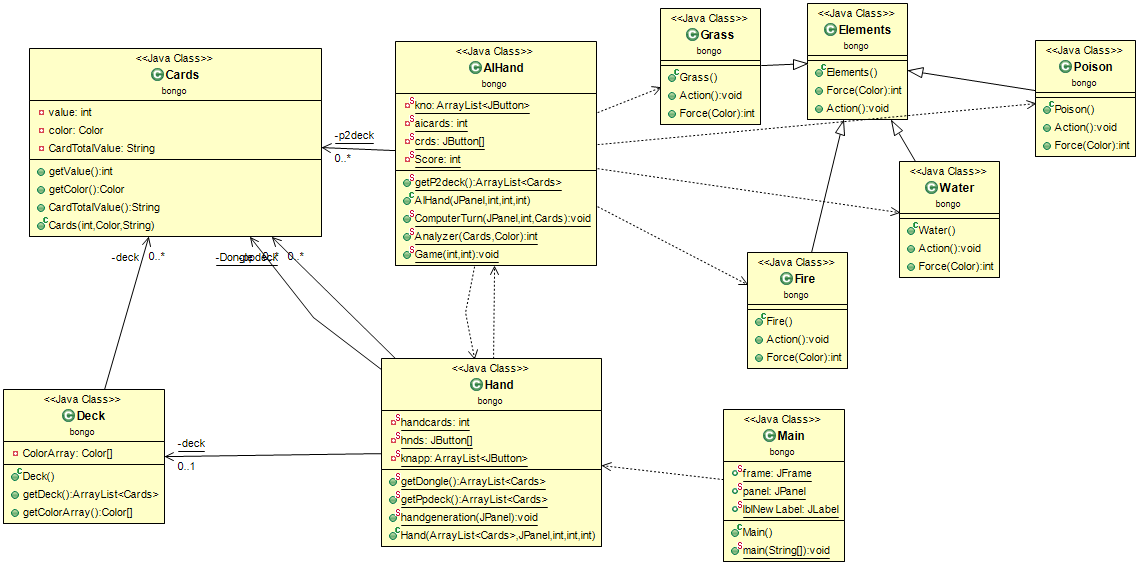
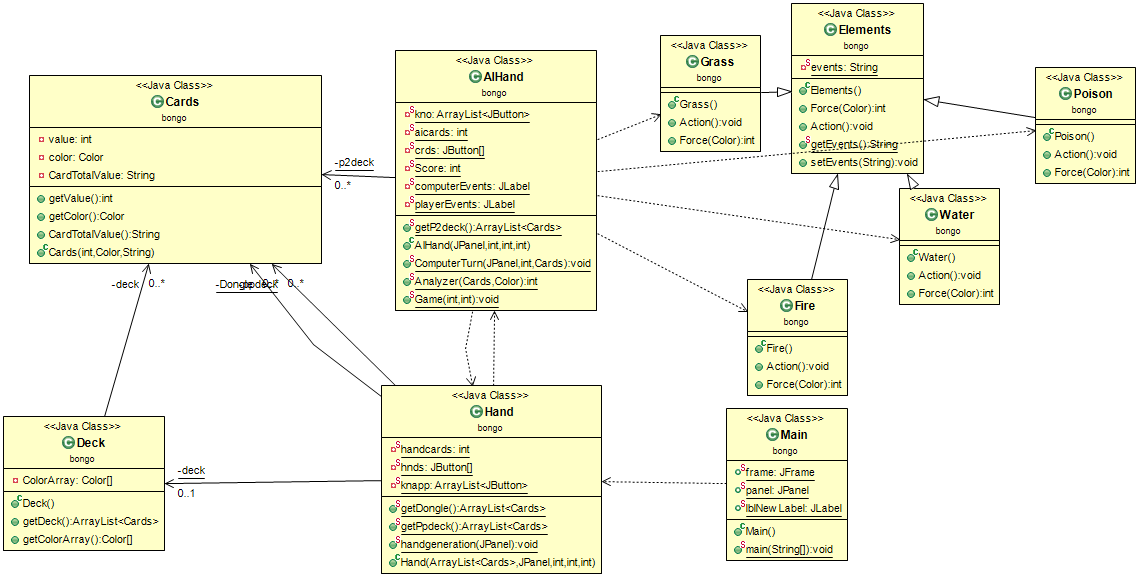
Added bonuses messages.

diff --git a/BongoGane/src/bongo/AIHand.java b/BongoGane/src/bongo/AIHand.java
@@ -4,6 +4,7 @@ import java.awt.Color;
 import java.util.ArrayList;
 
 import javax.swing.JButton;
+import javax.swing.JLabel;
 import javax.swing.JOptionPane;
 import javax.swing.JPanel;
 
@@ -14,12 +15,16 @@ public class AIHand {
 	private static int aicards = 10;
 	private static JButton[] crds = new JButton[aicards];
 	private static int Score = 0;
+	private static JLabel computerEvents = new JLabel();
+	private static JLabel playerEvents = new JLabel();
 	
 	public static ArrayList<Cards> getP2deck() {
 		return p2deck;
 	}
 	
 	public AIHand(JPanel panel,int x, int y, int i) {
+		panel.add(computerEvents);
+		panel.add(playerEvents);
 		JButton card = new JButton("Bongo");
 		int id = i;
 		card.setBounds(x, y, 80, 100);
@@ -30,6 +35,10 @@ public class AIHand {
 	}
 
 	public static void ComputerTurn(JPanel panel, int id, Cards player) {
+		computerEvents.setText("Ai Bonus: ");
+		playerEvents.setText("Your Bonus: ");
+		playerEvents.setBounds(620, 200, 440, 40);
+		computerEvents.setBounds(620, 300, 440, 40);
 		JButton computerChoice = new JButton();
 		kno.add(computerChoice);
 		computerChoice.setVisible(false);
@@ -44,7 +53,13 @@ public class AIHand {
 		panel.add(kno.get(0));
 		
 		int playerdamage = Analyzer(player, activeColor);
+		
+		playerEvents.setText("Your Bonus: " + Elements.getEvents());
+		
 		int computerdamage = Analyzer(getP2deck().get(id), player.getColor());
+		
+		computerEvents.setText("Ai Bonus: " + Elements.getEvents());
+		
 		int playernumber = Integer.parseInt(player.CardTotalValue());
 		int computernumber = Integer.parseInt(getP2deck().get(id).CardTotalValue());
 		int playerTotal = playerdamage + playernumber;

diff --git a/BongoGane/src/bongo/Fire.java b/BongoGane/src/bongo/Fire.java
@@ -3,15 +3,17 @@ package bongo;
 import java.awt.Color;
 
 public class Fire extends Elements {
+	
 	public void Action() {
 		System.out.println("Burn");
 	}
 
 	public int Force(Color enemy) {
 		if(enemy == Color.GREEN) {
-			System.out.println("Extra Burn (+1 damage)");
+			setEvents("Extra Burn (+1 damage)");
 			return 1;
 		}else {
+			setEvents("");
 			return 0;
 		}
 	}

diff --git a/BongoGane/src/bongo/Elements.java b/BongoGane/src/bongo/Elements.java
@@ -3,11 +3,20 @@ package bongo;
 import java.awt.Color;
 
 public class Elements {
+	
+	private static String events;
+	
 	public int Force(Color enemy) {
 		return 0;
 	}
 	public void Action() {
 		System.out.println("Elemental Attack");
+	}
+	public static String getEvents() {
+		return events;
+	}
+	public void setEvents(String events) {
+		Elements.events = events;
 	}
 }
 

diff --git a/BongoGane/src/bongo/Poison.java b/BongoGane/src/bongo/Poison.java
@@ -9,9 +9,10 @@ public class Poison extends Elements {
 
 	public int Force(Color enemy) {
 		if(enemy == Color.BLUE) {
-			System.out.println("Extra Infect (+1 damage)");
+			setEvents("Extra Infect (+1 damage)");
 			return 1;
 		}else {
+			setEvents("");
 			return 0;
 		}
 	}

diff --git a/BongoGane/src/bongo/Water.java b/BongoGane/src/bongo/Water.java
@@ -9,9 +9,10 @@ public class Water extends Elements {
 
 	public int Force(Color enemy) {
 		if(enemy == Color.RED) {
-			System.out.println("Extra Splash (+1 damage)");
+			setEvents("Extra Splash (+1 damage)");
 			return 1;
 		}else {
+			setEvents("");
 			return 0;
 		}
 	}

diff --git a/BongoGane/src/bongo/Grass.java b/BongoGane/src/bongo/Grass.java
@@ -9,9 +9,10 @@ public class Grass extends Elements {
 
 	public int Force(Color enemy) {
 		if(enemy == Color.YELLOW) {
-			System.out.println("Extra Grow (+1 damage)");
+			setEvents("Extra Grow (+1 damage)");
 			return 1;
 		}else {
+			setEvents("");
 			return 0;
 		}
 	}
